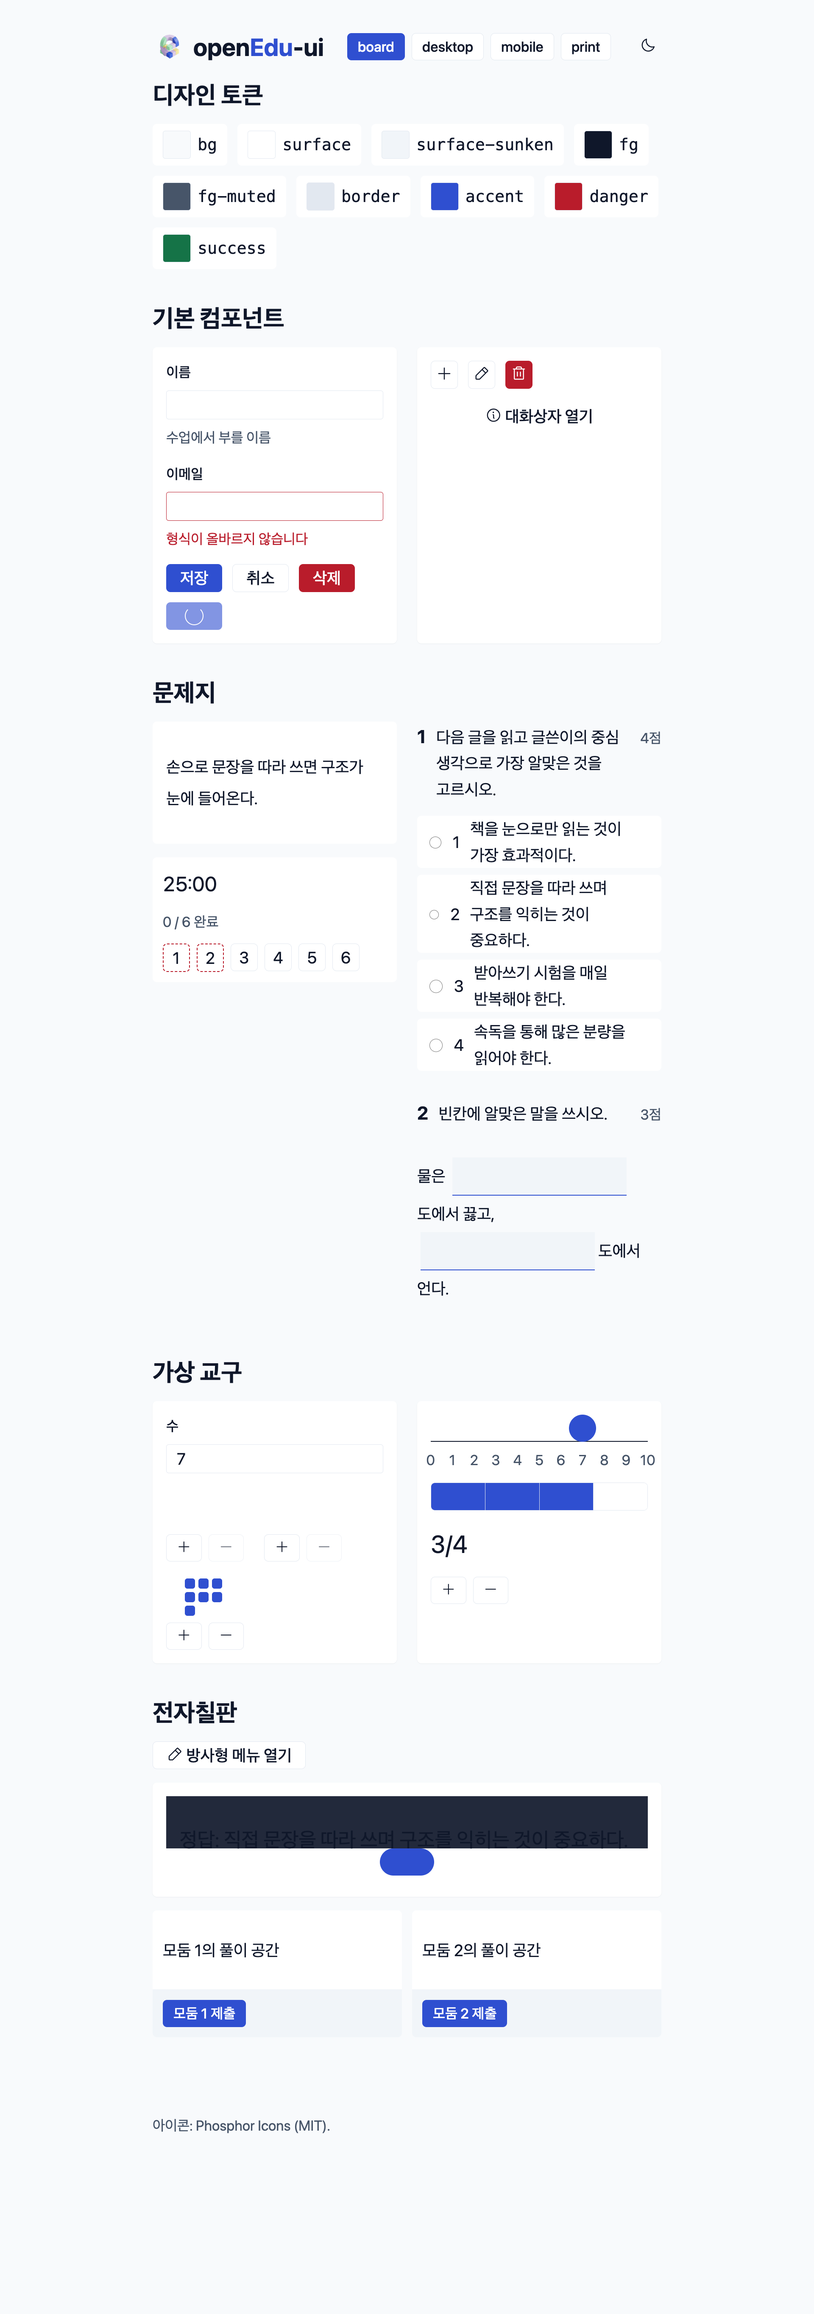
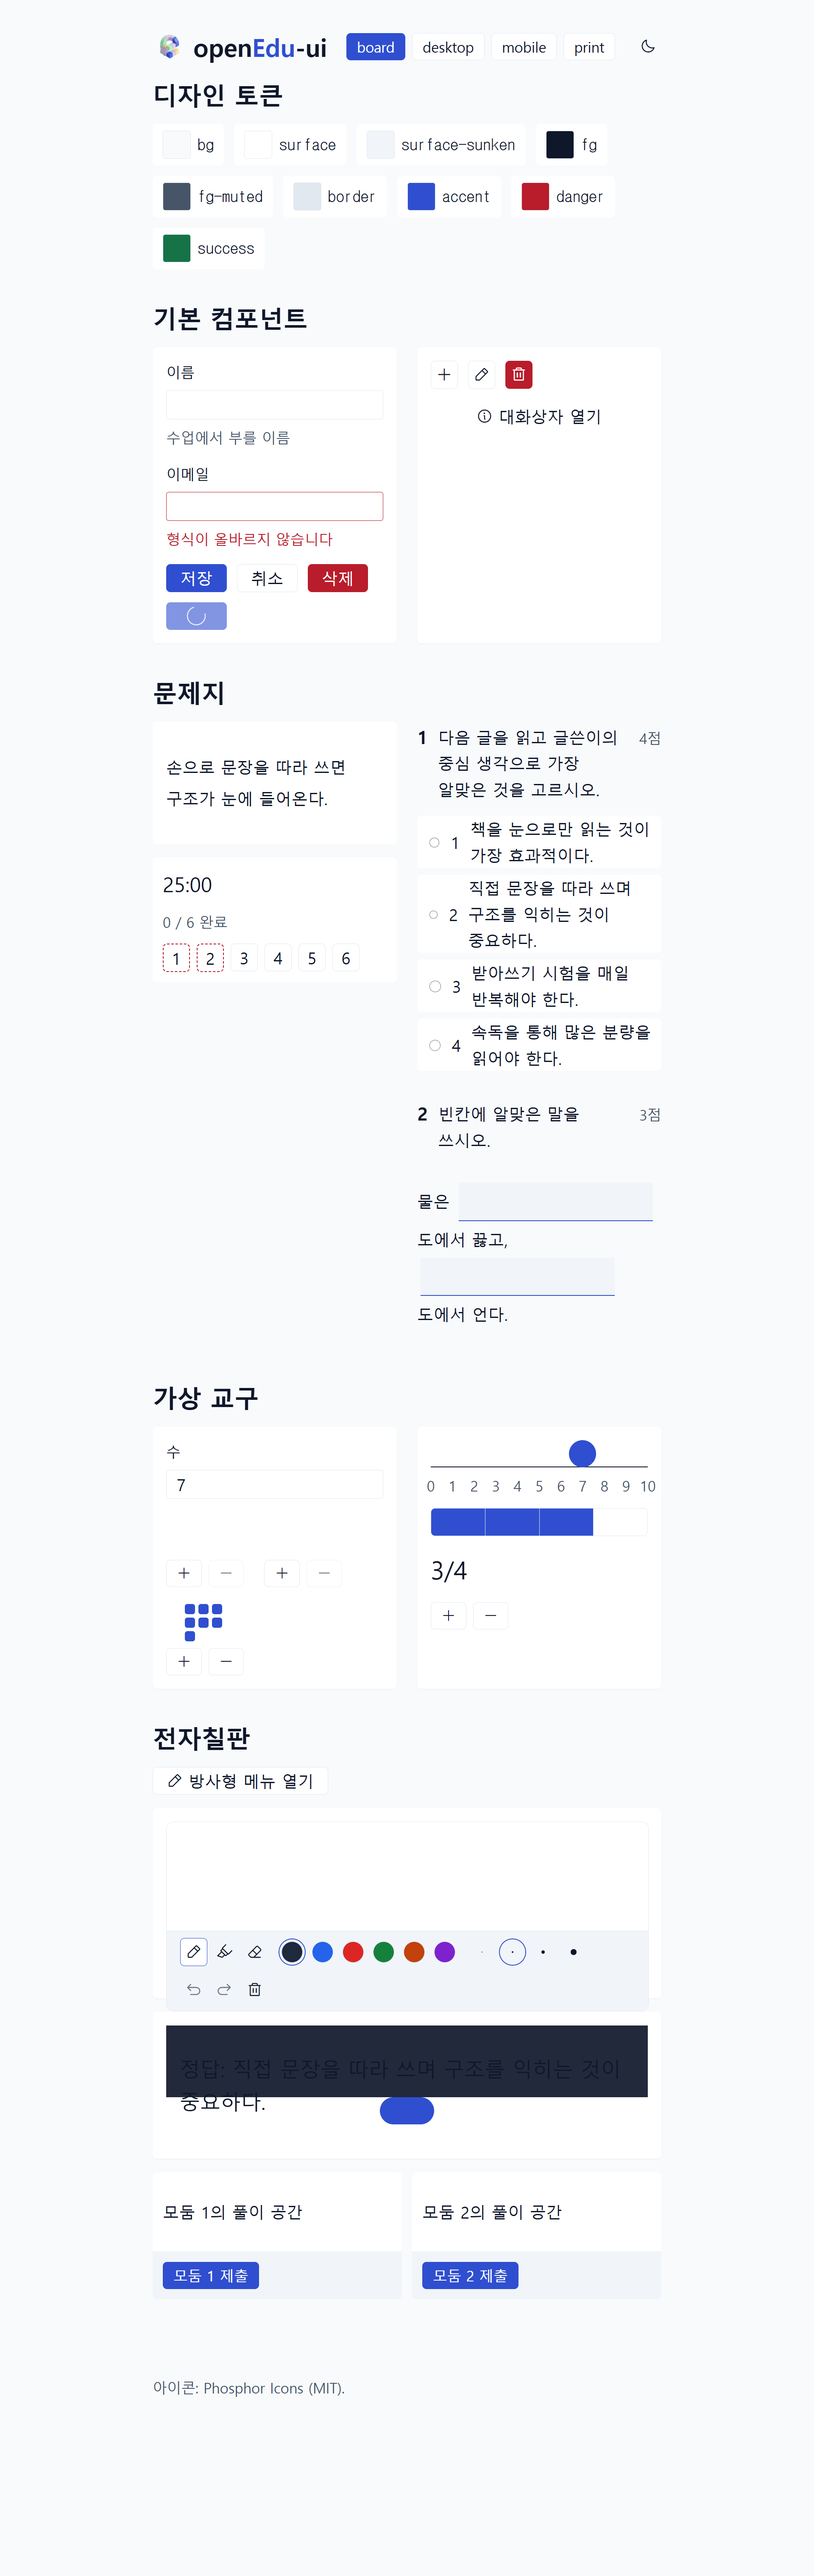
chore: 스크린샷 갱신 및 Windows 브라우저 실행 경로 지원
- capture-showcase / print-pdf에 Windows Chrome 및 Edge 기본 경로 추가

- InkBoard가 추가된 최신 쇼케이스 기준으로 4개 표면 스크린샷(board, desktop, mobile, print) 갱신

diff --git a/scripts/ops/capture-showcase.ts b/scripts/ops/capture-showcase.ts
@@ -10,7 +10,17 @@ import { startServer } from "./serve-showcase.ts";
 const root = resolve(dirname(fileURLToPath(import.meta.url)), "../..");
 const dist = join(root, "apps/showcase/dist");
 if (!existsSync(join(dist, "index.html"))) throw new Error("apps/showcase/dist missing — run `pnpm --filter showcase build` first");
-const chrome = [process.env.CHROME_PATH, "/Applications/Google Chrome.app/Contents/MacOS/Google Chrome", "/usr/bin/google-chrome", "/usr/bin/chromium"].find((p) => p && existsSync(p));
+const chrome = [
+  process.env.CHROME_PATH,
+  "C:/Program Files/Google/Chrome/Application/chrome.exe",
+  "C:/Program Files (x86)/Google/Chrome/Application/chrome.exe",
+  process.env.LOCALAPPDATA ? `${process.env.LOCALAPPDATA}/Google/Chrome/Application/chrome.exe` : undefined,
+  "C:/Program Files (x86)/Microsoft/Edge/Application/msedge.exe",
+  "C:/Program Files/Microsoft/Edge/Application/msedge.exe",
+  "/Applications/Google Chrome.app/Contents/MacOS/Google Chrome",
+  "/usr/bin/google-chrome",
+  "/usr/bin/chromium",
+].find((p) => p && existsSync(p));
 if (!chrome) throw new Error("Chrome not found. Set CHROME_PATH.");
 
 const SURFACES = [

diff --git a/scripts/ops/print-pdf.ts b/scripts/ops/print-pdf.ts
@@ -23,6 +23,11 @@ const option = (name: string) => {
 function chromePath(): string {
   const candidates = [
     process.env.CHROME_PATH,
+    "C:/Program Files/Google/Chrome/Application/chrome.exe",
+    "C:/Program Files (x86)/Google/Chrome/Application/chrome.exe",
+    process.env.LOCALAPPDATA ? `${process.env.LOCALAPPDATA}/Google/Chrome/Application/chrome.exe` : undefined,
+    "C:/Program Files (x86)/Microsoft/Edge/Application/msedge.exe",
+    "C:/Program Files/Microsoft/Edge/Application/msedge.exe",
     "/Applications/Google Chrome.app/Contents/MacOS/Google Chrome",
     "/usr/bin/google-chrome",
     "/usr/bin/chromium",
